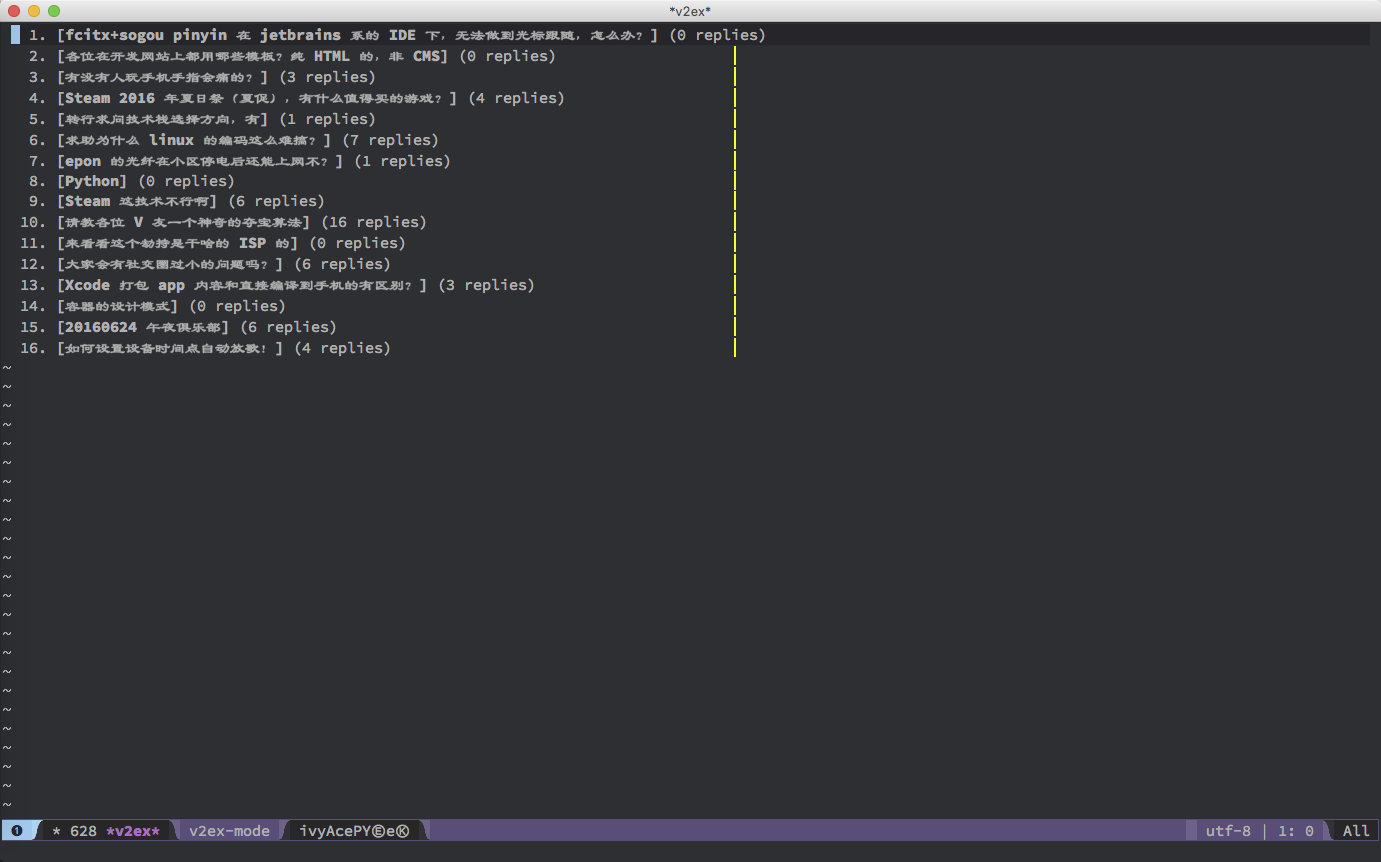
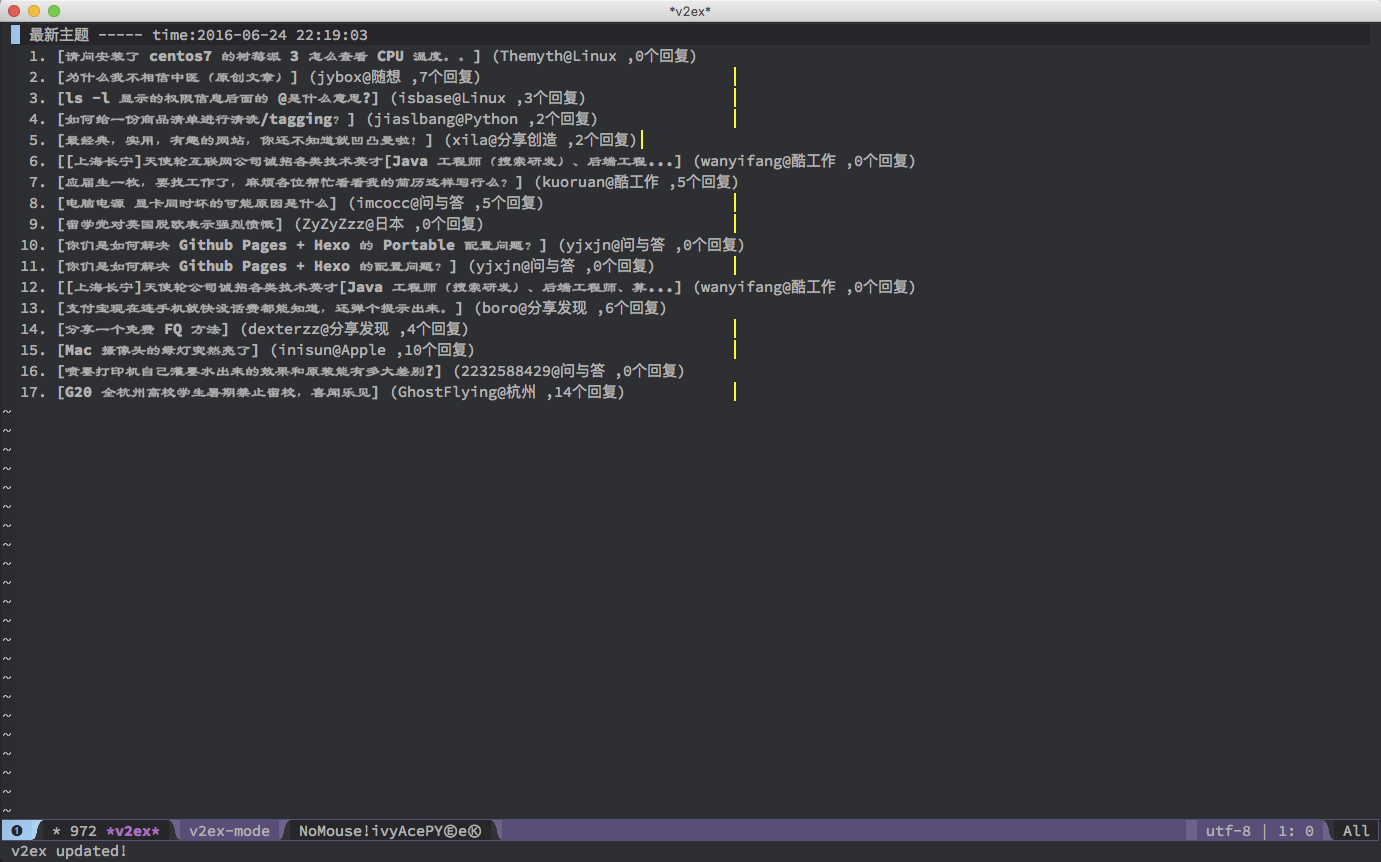
update docs

Changed region(s): [[0.0, 0.0302, 0.6539, 0.4826], [0.218, 0.935, 0.3736, 0.9954], [0.0, 0.9652, 0.0934, 0.9954]]

diff --git a/README.md b/README.md
@@ -5,6 +5,7 @@ v2ex-mode, visiting http://v2ex.com/ using emacs.
 Install it from elpa package source (i.e. [melpa](https://melpa.org/) or [popkit elpa](https://elpa.popkit.org/)).  
 ```elisp
 M-x package-install v2ex-mode
+(require 'v2ex-mode)    ;; put this line code into your initial file.
 ```
 
 Or, you can install it manually, download **v2ex-mode.el** file to **\<your-local-directory>**, and
@@ -18,6 +19,13 @@ and add-to-list load-path and load it.
 ```elisp
 M-x v2ex
 ```
+
+## Hotkey
+in \*v2ex* buffer, following are supported  
+1. **h** fetch the hot topics;  
+2. **l** fetch the latest topics;  
+3. **r** reload the current content;  
+3. **q** exit/quit kill & quit \*v2ex* buffer.
 
 ## Show
 The content list are shown in \*v2ex* buffer.  
